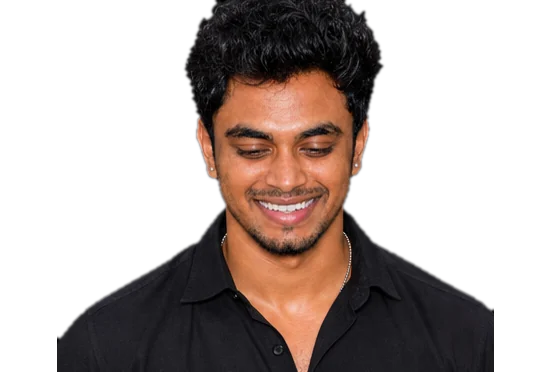
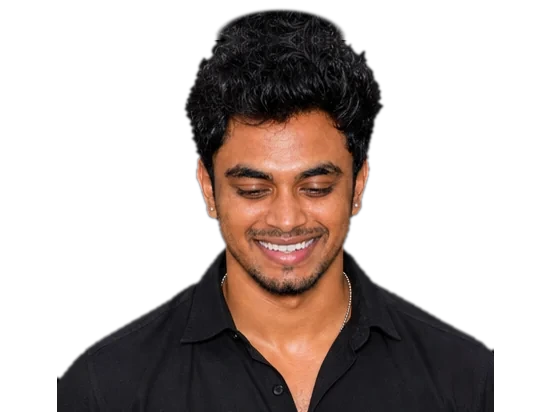
Shrink the portrait and stop cropping the hair
- Portrait is now 240px wide (was 340px), 176px tall
- Six of the nine pose photos cut the hair off at the top edge. Every
  pose now has 40px of headroom, and those six get a rounded hair top
  rebuilt from the photo's own top rows (shallower on the narrowest
  cuts). A real uncropped photo would still be best.
- Light mode no longer fades the top of the photo

Claude-Session: https://claude.ai/code/session_01QvPSy9MqdNzqBGSTSEWLuU

diff --git a/app/globals.css b/app/globals.css
@@ -23,15 +23,10 @@ html { scroll-behavior: smooth; }
 
 
 /* Interactive portrait: fluid width, one photo visible at a time, soft edges */
-.ip { position: relative; width: min(340px, 78vw); aspect-ratio: 85 / 57; perspective: 900px;
+.ip { position: relative; width: min(240px, 64vw); aspect-ratio: 15 / 11; perspective: 900px;
   -webkit-mask-image: radial-gradient(ellipse 62% 98% at 50% 28%, #000 52%, transparent 100%); mask-image: radial-gradient(ellipse 62% 98% at 50% 28%, #000 52%, transparent 100%); }
-/* On a light background the photo needs a gentler fade at the shoulders and a soft top, or its straight cut edges show. */
-:root[data-theme="light"] .ip {
-  -webkit-mask-image: linear-gradient(to bottom, transparent 0, #000 8%), radial-gradient(ellipse 62% 98% at 50% 28%, #000 36%, transparent 86%);
-  -webkit-mask-composite: source-in;
-  mask-image: linear-gradient(to bottom, transparent 0, #000 8%), radial-gradient(ellipse 62% 98% at 50% 28%, #000 36%, transparent 86%);
-  mask-composite: intersect;
-}
+/* On a light background the shoulders need a gentler fade, or the photo's straight bottom edge shows. */
+:root[data-theme="light"] .ip { -webkit-mask-image: radial-gradient(ellipse 62% 98% at 50% 42%, #000 36%, transparent 86%); mask-image: radial-gradient(ellipse 62% 98% at 50% 42%, #000 36%, transparent 86%); }
 .ip-stack { position: absolute; inset: 0; will-change: transform; }
 .ip-img { position: absolute; inset: 0; width: 100%; height: 100%; display: block; user-select: none; pointer-events: none; }
 

diff --git a/components/InteractivePortrait.tsx b/components/InteractivePortrait.tsx
@@ -27,7 +27,7 @@ const clamp = (v: number, a: number, b: number) => Math.max(a, Math.min(b, v));
 type Props = { maxWidth?: number; base?: string };
 
 /** One photo is visible at a time (frame swapping, like the reference), so there is never a ghost of another pose. */
-export default function InteractivePortrait({ maxWidth = 340, base = "/poses" }: Props) {
+export default function InteractivePortrait({ maxWidth = 240, base = "/poses" }: Props) {
   const reduce = useReducedMotion();
   const ref = useRef<HTMLDivElement>(null);
   const mx = useMotionValue(0);
